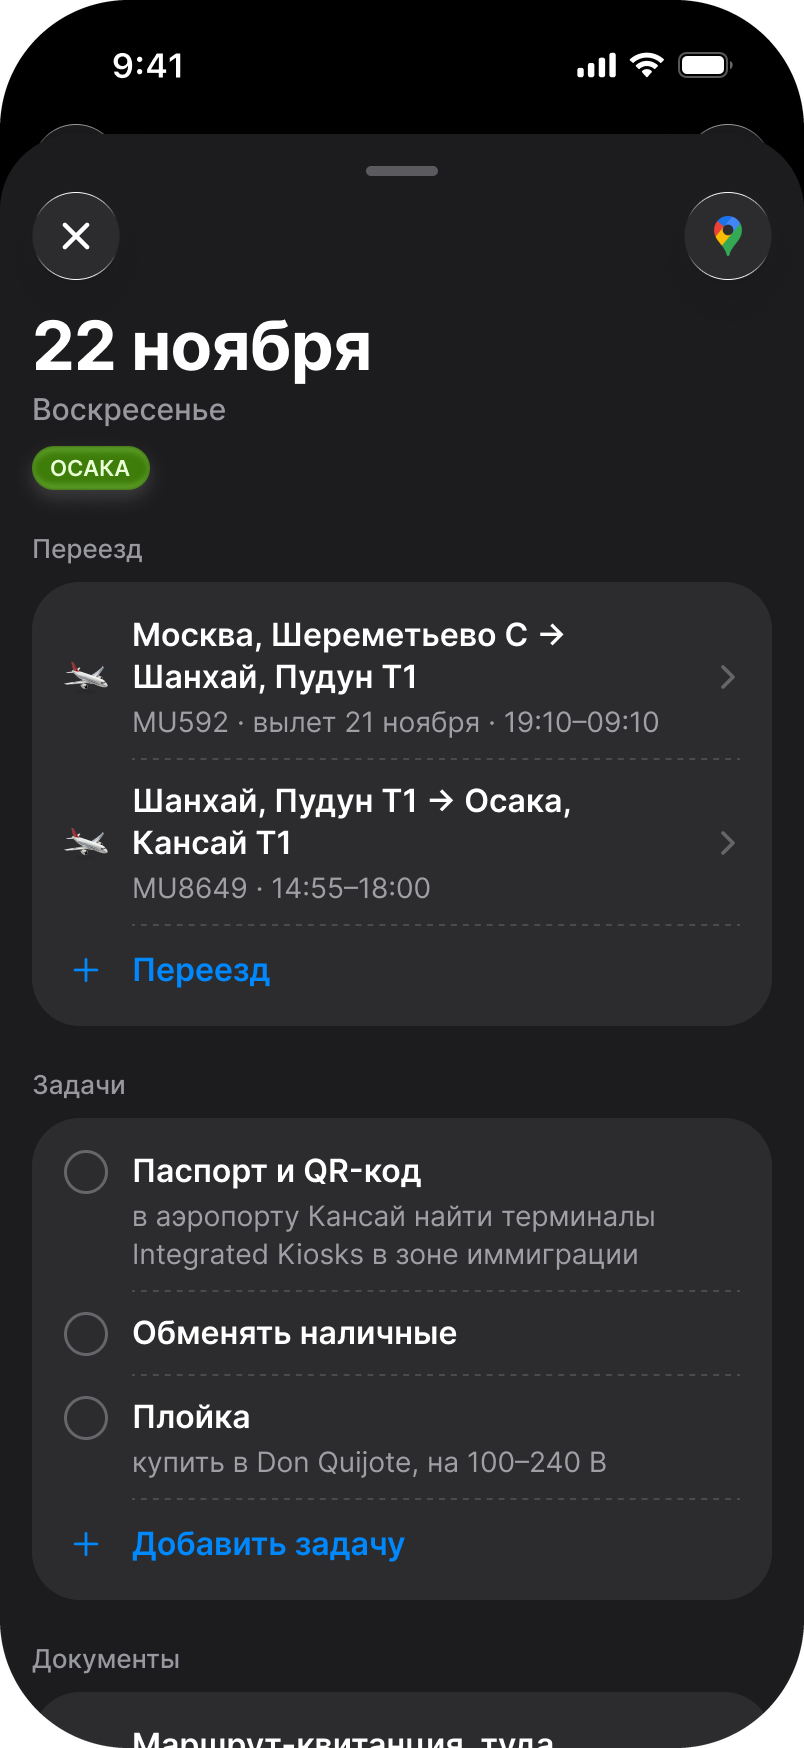
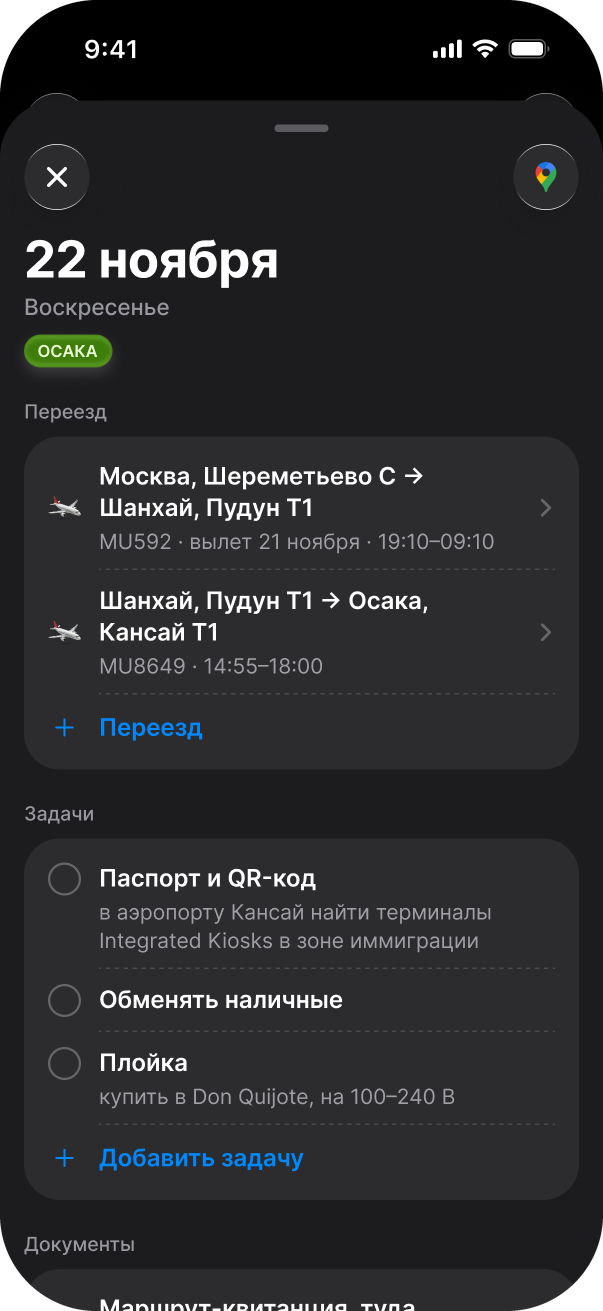
галерея easygoing: выгрузка из figma в 1.5x, без пережатия
Было 804x1748 и палитра, ужатая до 220 цветов, — на серых заливках и
тенях это давало полосы. Теперь кадры приходят из Figma сразу в
1.5x (603x1311) и ложатся в файл как есть: ни масштабирования, ни
палитры, только прозрачные углы по скруглению фрейма.
4.4 МБ -> 3.0 МБ.

Claude-Session: https://claude.ai/code/session_01StpxptfvpjwGYmo7tgMf6k

Changed region(s): [[0.2985, 0.4577, 0.3284, 0.4882], [0.1791, 0.5492, 0.209, 0.5797]]

diff --git a/payment-split.html b/payment-split.html
@@ -73,12 +73,12 @@
 <link rel="preload" as="font" type="font/woff2" crossorigin href="vendor/fonts/UcC73FwrK3iLTeHuS_nVMrMxCp50SjIa0ZL7W0Q5n-wU.woff2">
 <link rel="preload" as="font" type="font/woff2" crossorigin href="vendor/fonts/UcC73FwrK3iLTeHuS_nVMrMxCp50SjIa2JL7W0Q5n-wU.woff2">
 <link rel="stylesheet" href="vendor/inter.css">
-<link rel="stylesheet" href="base.css?v=202611141823">
-<link rel="stylesheet" href="article.css?v=202611141823">
+<link rel="stylesheet" href="base.css?v=202611141832">
+<link rel="stylesheet" href="article.css?v=202611141832">
 <!-- The SVG-only build: these files carry no expressions, images or text layers. -->
 <script src="vendor/lottie_light.min.js" defer></script>
-<script src="shared.js?v=202611141823" defer></script>
-<script src="page-payment-split.js?v=202611141823" defer></script>
+<script src="shared.js?v=202611141832" defer></script>
+<script src="page-payment-split.js?v=202611141832" defer></script>
 
 <!-- Vercel Web Analytics. Served from this domain, not from anyone else's:
      the site still makes no third-party requests. -->

diff --git a/activities.html b/activities.html
@@ -72,12 +72,12 @@
 <link rel="preload" as="font" type="font/woff2" crossorigin href="vendor/fonts/UcC73FwrK3iLTeHuS_nVMrMxCp50SjIa0ZL7W0Q5n-wU.woff2">
 <link rel="preload" as="font" type="font/woff2" crossorigin href="vendor/fonts/UcC73FwrK3iLTeHuS_nVMrMxCp50SjIa2JL7W0Q5n-wU.woff2">
 <link rel="stylesheet" href="vendor/inter.css">
-<link rel="stylesheet" href="base.css?v=202611141823">
-<link rel="stylesheet" href="article.css?v=202611141823">
+<link rel="stylesheet" href="base.css?v=202611141832">
+<link rel="stylesheet" href="article.css?v=202611141832">
 <!-- The SVG-only build: these files carry no expressions, images or text layers. -->
 <script src="vendor/lottie_light.min.js" defer></script>
-<script src="shared.js?v=202611141823" defer></script>
-<script src="page-activities.js?v=202611141823" defer></script>
+<script src="shared.js?v=202611141832" defer></script>
+<script src="page-activities.js?v=202611141832" defer></script>
 
 <!-- Vercel Web Analytics. Served from this domain, not from anyone else's:
      the site still makes no third-party requests. -->

diff --git a/desk-setup.html b/desk-setup.html
@@ -73,12 +73,12 @@
 <link rel="preload" as="font" type="font/woff2" crossorigin href="vendor/fonts/UcC73FwrK3iLTeHuS_nVMrMxCp50SjIa0ZL7W0Q5n-wU.woff2">
 <link rel="preload" as="font" type="font/woff2" crossorigin href="vendor/fonts/UcC73FwrK3iLTeHuS_nVMrMxCp50SjIa2JL7W0Q5n-wU.woff2">
 <link rel="stylesheet" href="vendor/inter.css">
-<link rel="stylesheet" href="base.css?v=202611141823">
-<link rel="stylesheet" href="article.css?v=202611141823">
+<link rel="stylesheet" href="base.css?v=202611141832">
+<link rel="stylesheet" href="article.css?v=202611141832">
 <!-- The SVG-only build: these files carry no expressions, images or text layers. -->
 <script src="vendor/lottie_light.min.js" defer></script>
-<script src="shared.js?v=202611141823" defer></script>
-<script src="page-desk-setup.js?v=202611141823" defer></script>
+<script src="shared.js?v=202611141832" defer></script>
+<script src="page-desk-setup.js?v=202611141832" defer></script>
 
 <!-- Vercel Web Analytics. Served from this domain, not from anyone else's:
      the site still makes no third-party requests. -->

diff --git a/animation-challenge.html b/animation-challenge.html
@@ -73,12 +73,12 @@
 <link rel="preload" as="font" type="font/woff2" crossorigin href="vendor/fonts/UcC73FwrK3iLTeHuS_nVMrMxCp50SjIa0ZL7W0Q5n-wU.woff2">
 <link rel="preload" as="font" type="font/woff2" crossorigin href="vendor/fonts/UcC73FwrK3iLTeHuS_nVMrMxCp50SjIa2JL7W0Q5n-wU.woff2">
 <link rel="stylesheet" href="vendor/inter.css">
-<link rel="stylesheet" href="base.css?v=202611141823">
-<link rel="stylesheet" href="article.css?v=202611141823">
+<link rel="stylesheet" href="base.css?v=202611141832">
+<link rel="stylesheet" href="article.css?v=202611141832">
 <!-- The SVG-only build: these files carry no expressions, images or text layers. -->
 <script src="vendor/lottie_light.min.js" defer></script>
-<script src="shared.js?v=202611141823" defer></script>
-<script src="page-animation.js?v=202611141823" defer></script>
+<script src="shared.js?v=202611141832" defer></script>
+<script src="page-animation.js?v=202611141832" defer></script>
 
 <!-- Vercel Web Analytics. Served from this domain, not from anyone else's:
      the site still makes no third-party requests. -->

diff --git a/easygoing.html b/easygoing.html
@@ -73,12 +73,12 @@
 <link rel="preload" as="font" type="font/woff2" crossorigin href="vendor/fonts/UcC73FwrK3iLTeHuS_nVMrMxCp50SjIa0ZL7W0Q5n-wU.woff2">
 <link rel="preload" as="font" type="font/woff2" crossorigin href="vendor/fonts/UcC73FwrK3iLTeHuS_nVMrMxCp50SjIa2JL7W0Q5n-wU.woff2">
 <link rel="stylesheet" href="vendor/inter.css">
-<link rel="stylesheet" href="base.css?v=202611141823">
-<link rel="stylesheet" href="article.css?v=202611141823">
+<link rel="stylesheet" href="base.css?v=202611141832">
+<link rel="stylesheet" href="article.css?v=202611141832">
 <!-- The SVG-only build: these files carry no expressions, images or text layers. -->
 <script src="vendor/lottie_light.min.js" defer></script>
-<script src="shared.js?v=202611141823" defer></script>
-<script src="page-easygoing.js?v=202611141823" defer></script>
+<script src="shared.js?v=202611141832" defer></script>
+<script src="page-easygoing.js?v=202611141832" defer></script>
 
 <!-- Vercel Web Analytics. Served from this domain, not from anyone else's:
      the site still makes no third-party requests. -->

diff --git a/airtrip.html b/airtrip.html
@@ -73,12 +73,12 @@
 <link rel="preload" as="font" type="font/woff2" crossorigin href="vendor/fonts/UcC73FwrK3iLTeHuS_nVMrMxCp50SjIa0ZL7W0Q5n-wU.woff2">
 <link rel="preload" as="font" type="font/woff2" crossorigin href="vendor/fonts/UcC73FwrK3iLTeHuS_nVMrMxCp50SjIa2JL7W0Q5n-wU.woff2">
 <link rel="stylesheet" href="vendor/inter.css">
-<link rel="stylesheet" href="base.css?v=202611141823">
-<link rel="stylesheet" href="article.css?v=202611141823">
+<link rel="stylesheet" href="base.css?v=202611141832">
+<link rel="stylesheet" href="article.css?v=202611141832">
 <!-- The SVG-only build: these files carry no expressions, images or text layers. -->
 <script src="vendor/lottie_light.min.js" defer></script>
-<script src="shared.js?v=202611141823" defer></script>
-<script src="page-airtrip.js?v=202611141823" defer></script>
+<script src="shared.js?v=202611141832" defer></script>
+<script src="page-airtrip.js?v=202611141832" defer></script>
 
 <!-- Vercel Web Analytics. Served from this domain, not from anyone else's:
      the site still makes no third-party requests. -->

diff --git a/mujo.html b/mujo.html
@@ -73,12 +73,12 @@
 <link rel="preload" as="font" type="font/woff2" crossorigin href="vendor/fonts/UcC73FwrK3iLTeHuS_nVMrMxCp50SjIa0ZL7W0Q5n-wU.woff2">
 <link rel="preload" as="font" type="font/woff2" crossorigin href="vendor/fonts/UcC73FwrK3iLTeHuS_nVMrMxCp50SjIa2JL7W0Q5n-wU.woff2">
 <link rel="stylesheet" href="vendor/inter.css">
-<link rel="stylesheet" href="base.css?v=202611141823">
-<link rel="stylesheet" href="article.css?v=202611141823">
+<link rel="stylesheet" href="base.css?v=202611141832">
+<link rel="stylesheet" href="article.css?v=202611141832">
 <!-- The SVG-only build: these files carry no expressions, images or text layers. -->
 <script src="vendor/lottie_light.min.js" defer></script>
-<script src="shared.js?v=202611141823" defer></script>
-<script src="page-mujo.js?v=202611141823" defer></script>
+<script src="shared.js?v=202611141832" defer></script>
+<script src="page-mujo.js?v=202611141832" defer></script>
 
 <!-- Vercel Web Analytics. Served from this domain, not from anyone else's:
      the site still makes no third-party requests. -->

diff --git a/wb.html b/wb.html
@@ -73,12 +73,12 @@
 <link rel="preload" as="font" type="font/woff2" crossorigin href="vendor/fonts/UcC73FwrK3iLTeHuS_nVMrMxCp50SjIa0ZL7W0Q5n-wU.woff2">
 <link rel="preload" as="font" type="font/woff2" crossorigin href="vendor/fonts/UcC73FwrK3iLTeHuS_nVMrMxCp50SjIa2JL7W0Q5n-wU.woff2">
 <link rel="stylesheet" href="vendor/inter.css">
-<link rel="stylesheet" href="base.css?v=202611141823">
-<link rel="stylesheet" href="article.css?v=202611141823">
+<link rel="stylesheet" href="base.css?v=202611141832">
+<link rel="stylesheet" href="article.css?v=202611141832">
 <!-- The SVG-only build: these files carry no expressions, images or text layers. -->
 <script src="vendor/lottie_light.min.js" defer></script>
-<script src="shared.js?v=202611141823" defer></script>
-<script src="page-wb.js?v=202611141823" defer></script>
+<script src="shared.js?v=202611141832" defer></script>
+<script src="page-wb.js?v=202611141832" defer></script>
 
 <!-- Vercel Web Analytics. Served from this domain, not from anyone else's:
      the site still makes no third-party requests. -->

diff --git a/index.html b/index.html
@@ -72,12 +72,12 @@
 <link rel="preload" as="font" type="font/woff2" crossorigin href="vendor/fonts/UcC73FwrK3iLTeHuS_nVMrMxCp50SjIa0ZL7W0Q5n-wU.woff2">
 <link rel="preload" as="font" type="font/woff2" crossorigin href="vendor/fonts/UcC73FwrK3iLTeHuS_nVMrMxCp50SjIa2JL7W0Q5n-wU.woff2">
 <link rel="stylesheet" href="vendor/inter.css">
-<link rel="stylesheet" href="base.css?v=202611141823">
-<link rel="stylesheet" href="home.css?v=202611141823">
+<link rel="stylesheet" href="base.css?v=202611141832">
+<link rel="stylesheet" href="home.css?v=202611141832">
 <!-- The SVG-only build: these files carry no expressions, images or text layers. -->
 <script src="vendor/lottie_light.min.js" defer></script>
-<script src="shared.js?v=202611141823" defer></script>
-<script src="home.js?v=202611141823" defer></script>
+<script src="shared.js?v=202611141832" defer></script>
+<script src="home.js?v=202611141832" defer></script>
 
 <!-- Vercel Web Analytics. Served from this domain, not from anyone else's:
      the site still makes no third-party requests. -->

diff --git a/404.html b/404.html
@@ -37,8 +37,8 @@
 <link rel="preload" as="font" type="font/woff2" crossorigin href="/vendor/fonts/UcC73FwrK3iLTeHuS_nVMrMxCp50SjIa1ZL7W0Q5nw.woff2">
 <link rel="preload" as="font" type="font/woff2" crossorigin href="/vendor/fonts/UcC73FwrK3iLTeHuS_nVMrMxCp50SjIa0ZL7W0Q5n-wU.woff2">
 <link rel="preload" as="font" type="font/woff2" crossorigin href="/vendor/fonts/UcC73FwrK3iLTeHuS_nVMrMxCp50SjIa2JL7W0Q5n-wU.woff2">
-<link rel="stylesheet" href="/vendor/inter.css?v=202611141823">
-<link rel="stylesheet" href="/base.css?v=202611141823">
+<link rel="stylesheet" href="/vendor/inter.css?v=202611141832">
+<link rel="stylesheet" href="/base.css?v=202611141832">
 <style>
   .notfound {
     min-height: 100vh;

diff --git a/shared.js b/shared.js
@@ -9,7 +9,7 @@
 // Pictures the scripts build get this stamp on the end of their address.
 // A file keeps its name when its contents change, and without the stamp a
 // browser goes on showing the copy it already has.
-var ASSET_V = '202611141823';
+var ASSET_V = '202611141832';
 
 window.PF = (function () {
   'use strict';

diff --git a/page-easygoing.js b/page-easygoing.js
@@ -133,7 +133,7 @@
     RAIL.forEach(function (key) {
       var img = el('img', 'rail-shot', {
         src: shot(key, 'light'), alt: '', loading: 'lazy',
-        width: '804', height: '1748'
+        width: '603', height: '1311'
       });
       img.dataset.shot = key;
       rail.appendChild(img);
